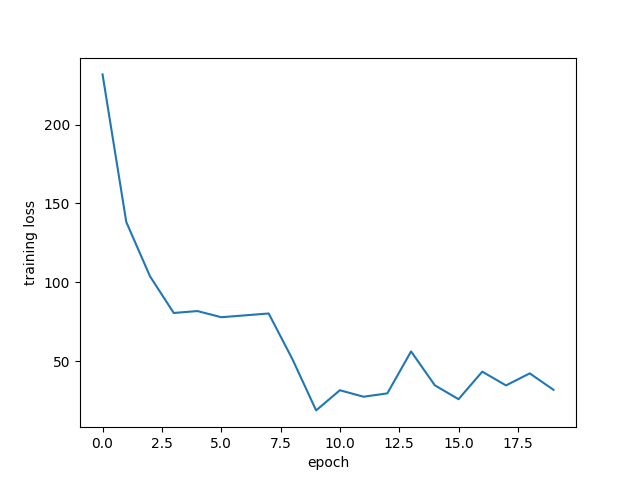
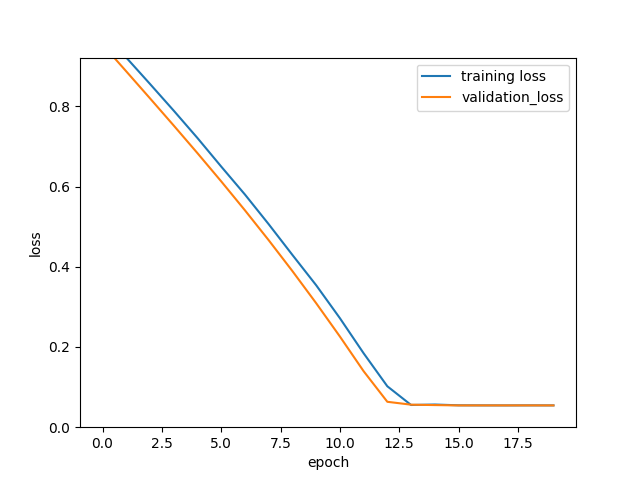
Split data into train, test and validation sets

diff --git a/data.py b/data.py
@@ -4,11 +4,27 @@ import tensorflow as tf
 import numpy as np
 
 
-def create_dataset(features, batch_size):
+def create_datasets(features, batch_size, train_size, test_size):
 
     pickle_paths = glob.glob('./data/*.pkl')
+    num_files = len(pickle_paths)
+    train_split = int(train_size * num_files)
+    test_split = int(test_size * num_files) + train_split
     
-    dataset = tf.data.Dataset.from_tensor_slices(pickle_paths)
+    train_files = pickle_paths[:train_split]
+    test_files = pickle_paths[train_split:test_split]
+    validation_files = pickle_paths[test_split:]
+
+    train = _create_dataset(train_files, features, batch_size)
+    test = _create_dataset(test_files, features, batch_size)
+    validation = _create_dataset(validation_files, features, batch_size)
+
+    return train, test, validation
+
+
+def _create_dataset(files, features, batch_size):
+    
+    dataset = tf.data.Dataset.from_tensor_slices(files)
 
     dataset = dataset.map(
         lambda path: _retrieve_data(path, features),

diff --git a/main.py b/main.py
@@ -5,7 +5,7 @@ import tensorflow as tf
 import yaml
 from model import get_model
 from plotter import plot_loss
-from data import create_dataset
+from data import create_datasets
 
 
 if __name__ == '__main__':
@@ -16,12 +16,19 @@ if __name__ == '__main__':
     with open('config.yaml') as f:
         config = yaml.safe_load(f)
 
-    dataset = create_dataset(features=config['features'], batch_size=config['batch_size'])
+    train, test, validation = create_datasets(
+        features=config['features'], batch_size=config['batch_size'],
+        train_size=config['train_size'], test_size=config['test_size']
+    )
+
+    train = train.shuffle(100)
 
     dnn = get_model(num_features=len(config['features']['constituents']))
 
     dnn.compile(optimizer='adam', loss='mean_absolute_error')
 
-    fit = dnn.fit(dataset, epochs=config['epochs'])
+    fit = dnn.fit(train, validation_data=validation, epochs=config['epochs'])
 
     plot_loss(fit.history)
+
+    predictions = dnn.predict(test)

diff --git a/plotter.py b/plotter.py
@@ -1,8 +1,11 @@
-
 import matplotlib.pyplot as plt
 
+
 def plot_loss(history):
-    plt.plot(history['loss'])
+    plt.ylim([0, history['loss'][1]])
+    plt.plot(history['loss'], label='training loss')
+    plt.plot(history['val_loss'], label='validation_loss')
     plt.xlabel('epoch')
-    plt.ylabel('training loss')
+    plt.ylabel('loss')
+    plt.legend()
     plt.savefig('plots/loss.png')
